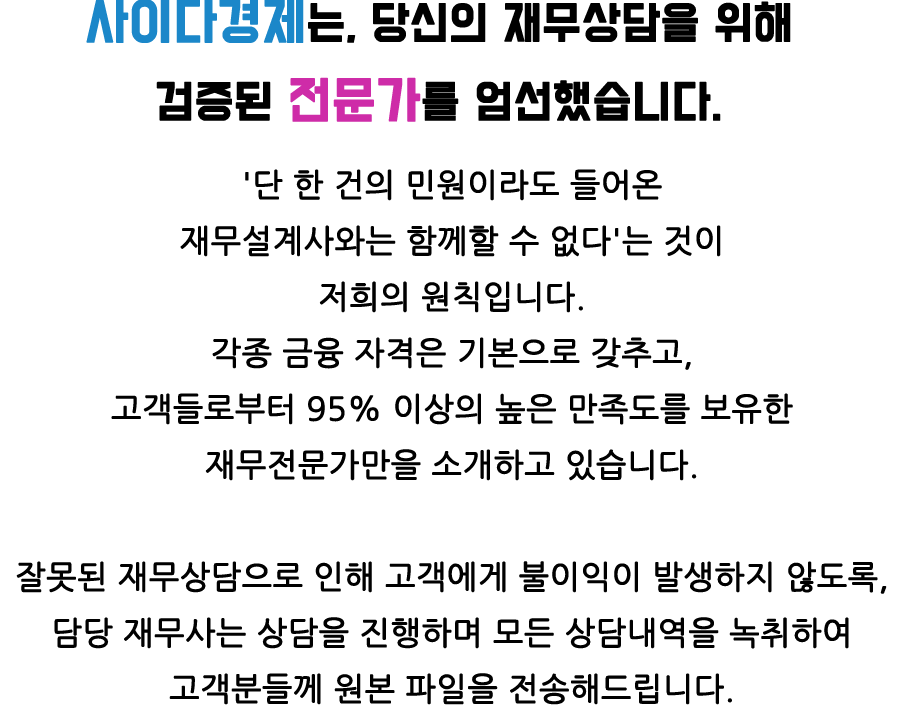
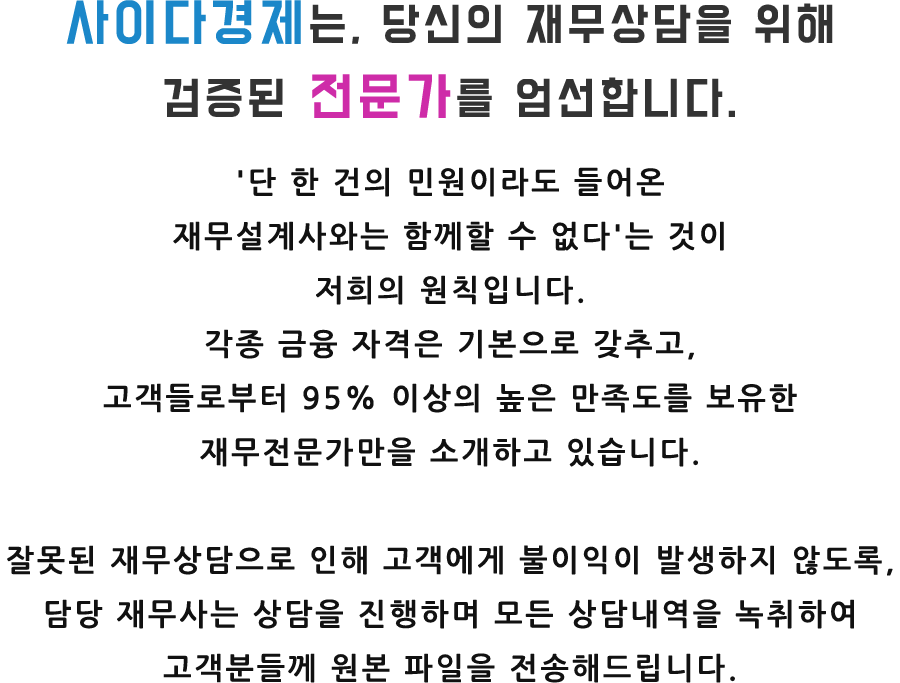
여러가지 많이바꿈 -재무 배너 추가 -어바웃과 콘텐츠 모든페이지 웹에서 양옆 파란색 -어바웃 마진값 -어바웃에 들어간 css합침...등

diff --git a/public/css/cid_about.css b/public/css/cid_about.css
@@ -1,0 +1,44 @@
+.bg-blue{background-color:#1b87c9;}
+.bg-white{background-color:#ffffff; box-shadow:0 8px 10px rgba(0, 0, 0, 0.8); padding-top:50px;}
+
+.mob-main-banner{display:none;}
+.team{ font-family: 'Nanum Gothic', serif; color:#1b87c9;}
+.team .title{margin-top:20px; font-size:26px;}
+.team .title span{font-size:22px; border-bottom:2px solid #ce2ca8; font-weight:900; padding-bottom:5px;}
+.team .title p{font-size:18px; font-weight:bold; text-align:center; margin:50px 0 100px 0;}
+.team .title p span{color:#ce2ca8; font-size:20px; border:none;}
+.team .editor-intro{margin-bottom:100px;}
+.team .editor-intro img.img-center {margin: 0 auto;}
+.team .editor-intro .row div{margin-bottom:50px;}
+
+.company{ font-family: 'Nanum Gothic', serif; color:#1b87c9; padding-left:50px !important;}
+.company .title{margin-top:20px; font-size:26px;}
+.company .title span{font-size:22px; border-bottom:2px solid #ce2ca8; font-weight:900; padding-bottom:5px;}
+.company .logo{margin:20px 0 20px 0;}
+.company .contents{font-size:16px; font-weight:bold; line-height:2.0em; margin-bottom:250px;}
+.company .contents span{font-size:18px; color:#1b87c9;}
+
+.contact{ font-family: 'Nanum Gothic', serif; color:#333;}
+.contact .title{margin-top:20px; color:#2f8ecd; font-size:26px;}
+.contact .title span{font-size:22px; border-bottom:2px solid #c02e88; font-weight:900; padding-bottom:5px;}
+/*.contact .map #googleMap{margin:20px 0 20px 0;}*/
+.contact .contents{font-size:16px; font-weight:900; line-height:3.0em; margin:50px 0 100px 0; color:#2f8ecd;}
+.contact .contents .title{font-size:22px;}
+.contact .contents span{font-size:20px; color:#666666;}
+
+
+@media all and (max-width:1024px) {
+.bg-blue{margin-top:0 !important; height:100%;}	
+.bg-white{padding-top:80px;}
+	
+.main-menu{display:none;}
+.web-main-banner{display:none;}
+.mob-main-banner{display:block;}
+.team{text-align:center;}
+.team .title p{font-size:14px; font-weight:bold; text-align:center; margin:50px 0 100px 0; line-height:1.5em;}
+.team .title p span{color:#ce2ca8; font-size:16px; border:none;}
+
+.company{text-align:center; padding-left:5px !important; padding-right:5px;}
+
+.contact .title{text-align:center;}
+}

diff --git a/public/css/cid_contents.css b/public/css/cid_contents.css
@@ -1,3 +1,6 @@
+.bg-blue{background-color:#1b87c9;}
+.bg-white{background-color:#ffffff; box-shadow:0 8px 10px rgba(0, 0, 0, 0.8); padding-top:50px;}
+
 .contents-menu .menu img{margin:50px 15px 50px 15px;}
 .contents{font-family: 'Nanum Gothic', serif; font-size:16px; text-align:center; font-weight:bold;}
 .contents div div{margin:10px 0 10px 0;}
@@ -8,6 +11,9 @@
 .contents h4{color:#ce2ca8; font-weight:600;}
 
 @media all and (max-width:1024px) {
+.bg-blue{margin-top:0 !important; height:100%;}	
+.bg-white{padding-top:80px;}	
+	
 .contents-menu{display:none;}
 .contents .icon-plus_con{margin:10px 0 30px 0;}
 .contents .icon-plus_con img{height:80px;}

diff --git a/public/css/cid_contents_detail.css b/public/css/cid_contents_detail.css
@@ -1,4 +1,4 @@
-.bg-blue{background-color:#1b87c9; margin-top:50px;}
+.bg-blue{background-color:#1b87c9;}
 .bg-white{background-color:#ffffff; box-shadow:0 0 10px rgba(0, 0, 0, 0.8);}
 
 .margin0{margin:0 !important;}
